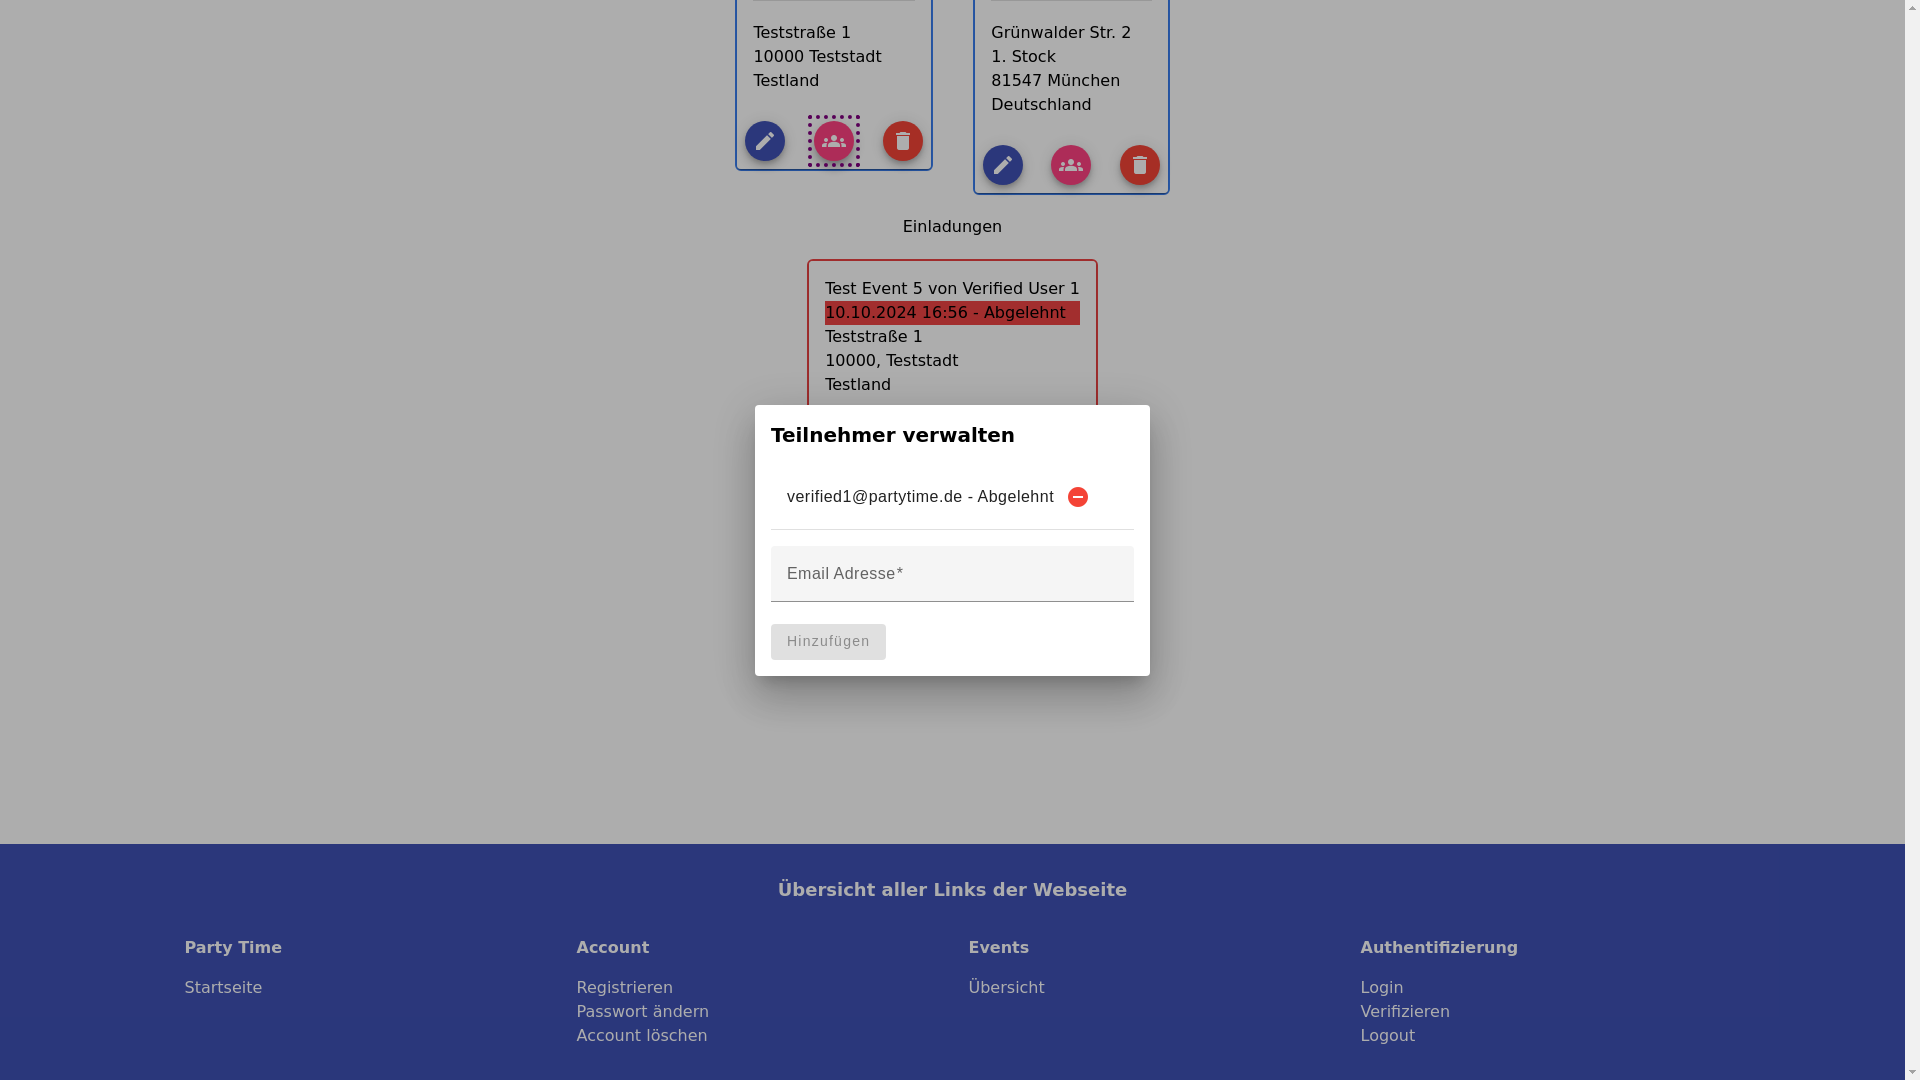
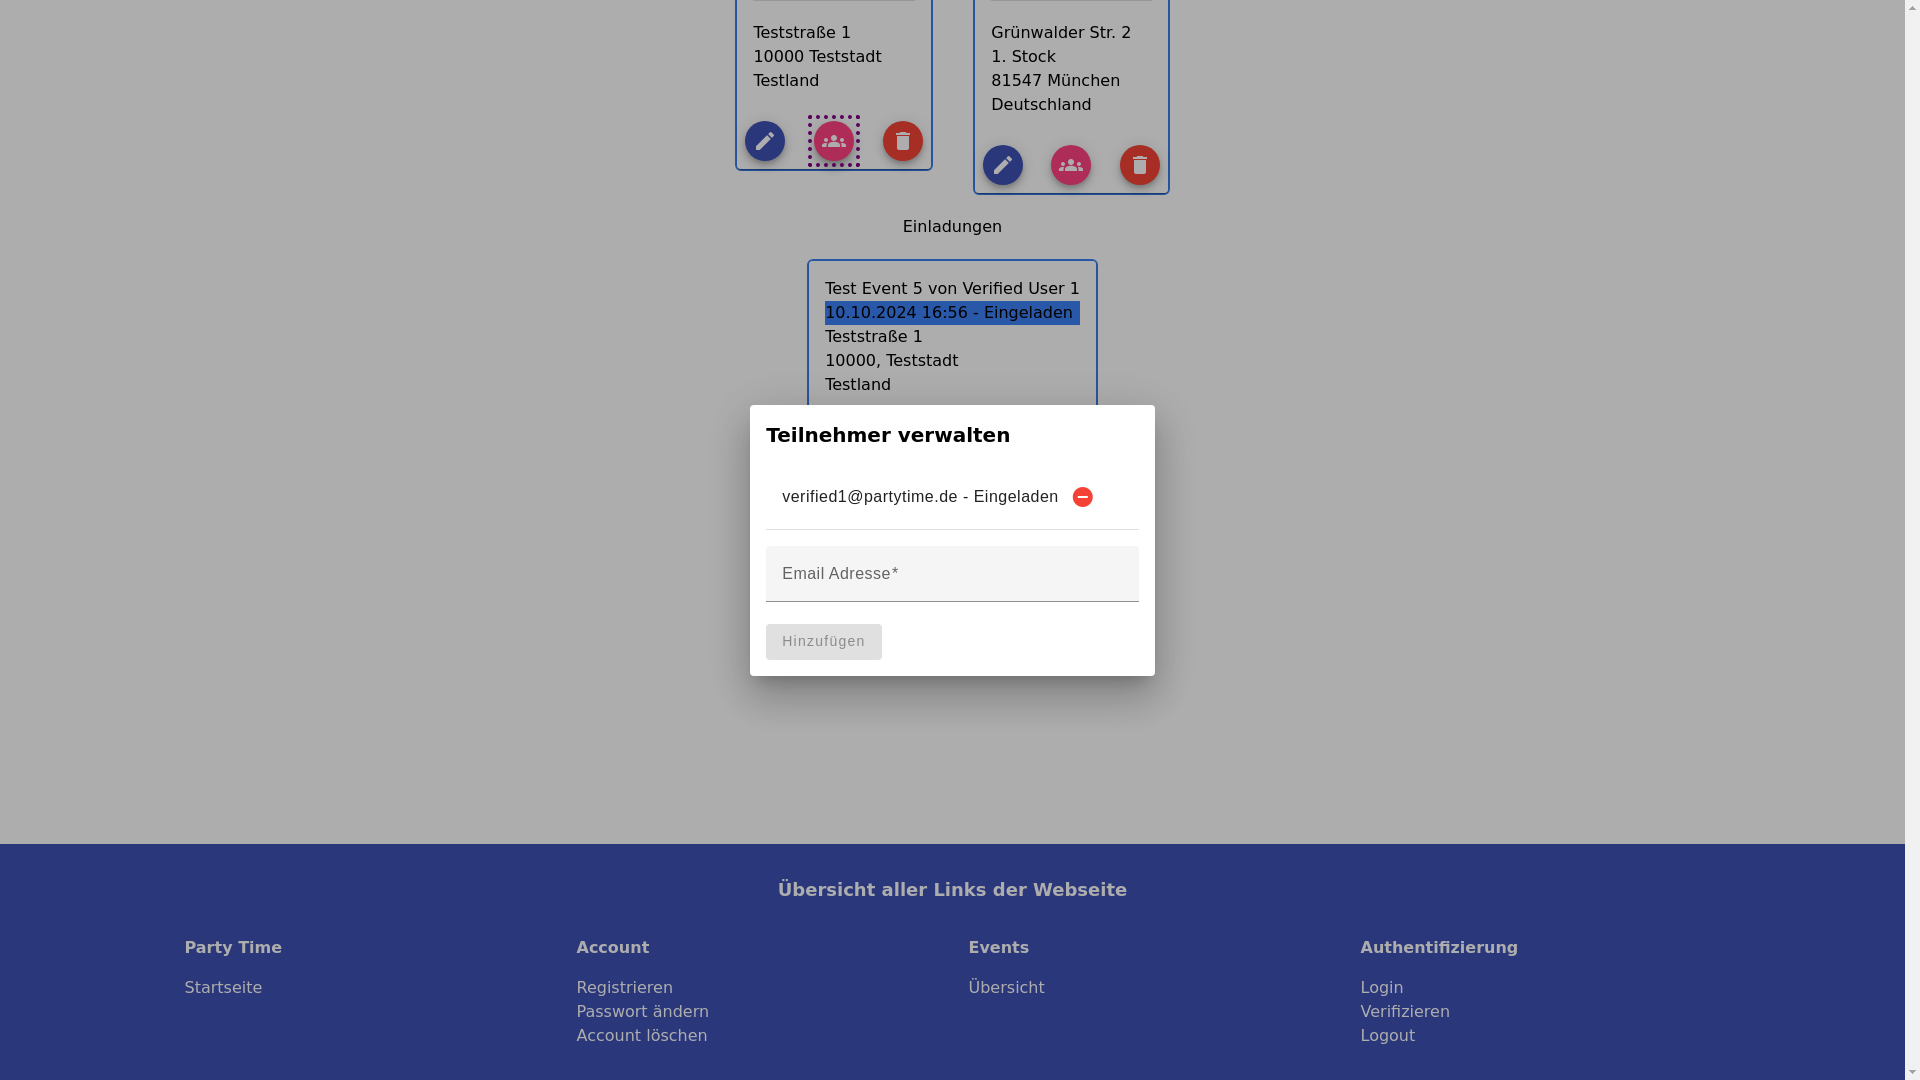
improved tests

diff --git a/apps/party-time-frontend-17/-e2e/src/e2e/F013.cy.ts b/apps/party-time-frontend-17/-e2e/src/e2e/F013.cy.ts
@@ -13,6 +13,7 @@ describe(passwordChange, () => {
     'Benutzer sollten in der Lage sein, ihr aktuelles Passwort einzugeben, um ihre Identität zu bestätigen.';
   it(confirmPassword, () => {
     cy.get('[data-cy="old-password-input"]').type('Hallo123!party');
+cy.scrollTo('top');
     cy.screenshot(getScreenshotPath(requirement, passwordChange, '1'), {
       overwrite: true,
       capture: 'viewport',
@@ -22,9 +23,12 @@ describe(passwordChange, () => {
   const newPasswordConstraints =
     ' Das neue Passwort muss bestimmte Anforderungen erfüllen, z. B. eine Mindestlänge und die Verwendung von Sonderzeichen.';
   it(newPasswordConstraints, () => {
+
+    cy.get('[data-cy="old-password-input"]').type('Hallo123!party');
     cy.get('[data-cy="new-password-input"]').type('prty');
     cy.get('[data-cy="old-password-input"]').focus();
-
+cy.scrollTo('top');
+cy.wait(500);
     cy.screenshot(getScreenshotPath(requirement, passwordChange, '2'), {
       overwrite: true,
       capture: 'viewport',
@@ -33,7 +37,9 @@ describe(passwordChange, () => {
   const newPassword =
     'Benutzer sollten in der Lage sein, ein neues Passwort einzugeben und zu bestätigen.';
   it(newPassword, () => {
+    cy.get('[data-cy="old-password-input"]').type('Hallo123!party');
     cy.get('[data-cy="new-password-input"]').type('Hallo123!party');
+cy.scrollTo('top');
     cy.screenshot(getScreenshotPath(requirement, passwordChange, '3'), {
       overwrite: true,
       capture: 'viewport',
@@ -45,11 +51,14 @@ describe(passwordChange, () => {
   it(passwordChangeLogout, () => {
     cy.get('[data-cy="old-password-input"]').type('Hallo123!party');
     cy.get('[data-cy="new-password-input"]').type('Hallo123!party');
+cy.scrollTo('top');
     cy.screenshot(getScreenshotPath(requirement, passwordChange, '4'), {
       overwrite: true,
       capture: 'viewport',
     });
     cy.get('[data-cy="submit-button"]').click();
+cy.scrollTo('top');
+cy.wait(500);
     cy.screenshot(getScreenshotPath(requirement, passwordChange, '5'), {
       overwrite: true,
       capture: 'viewport',

diff --git a/apps/party-time-frontend-17/-e2e/src/e2e/F007.cy.ts b/apps/party-time-frontend-17/-e2e/src/e2e/F007.cy.ts
@@ -12,6 +12,7 @@ describe(invitationReceivedGroup, () => {
   const eventDetails =
     'Einladungen sollten alle relevanten Informationen zum Event enthalten.';
   it(eventDetails, () => {
+cy.scrollTo('top');
     cy.screenshot(
       getScreenshotPath(requirement, invitationReceivedGroup, '1'),
       {
@@ -20,15 +21,16 @@ describe(invitationReceivedGroup, () => {
       }
     );
   });
-  const inviteDecline =
-    'Teilnehmer sollten in der Lage sein, Einladungen anzunehmen oder abzulehnen.';
-  it(inviteDecline, () => {
-    cy.screenshot(
-      getScreenshotPath(requirement, invitationReceivedGroup, '2'),
-      {
-        overwrite: true,
-        capture: 'viewport',
-      }
-    );
-  });
+//   const inviteDecline =
+//     'Teilnehmer sollten in der Lage sein, Einladungen anzunehmen oder abzulehnen.';
+//   it(inviteDecline, () => {
+// cy.scrollTo('top');
+//     cy.screenshot(
+//       getScreenshotPath(requirement, invitationReceivedGroup, '2'),
+//       {
+//         overwrite: true,
+//         capture: 'viewport',
+//       }
+//     );
+//   });
 });

diff --git a/apps/party-time-frontend-17/-e2e/src/e2e/F012.cy.ts b/apps/party-time-frontend-17/-e2e/src/e2e/F012.cy.ts
@@ -15,14 +15,14 @@ describe(signOutGroup, () => {
     cy.visit('/');
 
     cy.get('[data-cy="user-menu"]').click();
-
+cy.scrollTo('top');
     cy.screenshot(getScreenshotPath(requirement, signOutGroup, '1'), {
       overwrite: true,
       capture: 'viewport',
     });
 
     cy.get('[data-cy="sign-out-button"]').click();
-
+cy.scrollTo('top');
     cy.screenshot(getScreenshotPath(requirement, signOutGroup, '2'), {
       overwrite: true,
       capture: 'viewport',
@@ -33,11 +33,13 @@ describe(signOutGroup, () => {
     ' Nachdem ein Benutzer sich abgemeldet hat, kann er auf keine persönlichen Daten zugreifen, bis er sich nicht wieder angemeldet hat.';
   it(unavailableDataAfterLogout, () => {
     cy.visit('/');
+cy.scrollTo('top');
     cy.screenshot(getScreenshotPath(requirement, signOutGroup, '3'), {
       overwrite: true,
       capture: 'viewport',
     });
     cy.get('[data-cy="create-event-button"]').click();
+cy.scrollTo('top');
     cy.screenshot(getScreenshotPath(requirement, signOutGroup, '4'), {
       overwrite: true,
       capture: 'viewport',

diff --git a/apps/party-time-frontend-17/-e2e/src/e2e/F011.cy.ts b/apps/party-time-frontend-17/-e2e/src/e2e/F011.cy.ts
@@ -12,6 +12,7 @@ describe(login_account_success, () => {
   const loginFormTest =
     'Nutzer müssen ein Anmeldeformular ausfüllen, das ihre E-Mail-Adresse und ein Passwort erfordert.';
   it(loginFormTest, () => {
+cy.scrollTo('top');
     cy.screenshot(getScreenshotPath(requirement, login_account_success, '1'), {
       overwrite: true,
       capture: 'viewport',
@@ -19,12 +20,15 @@ describe(login_account_success, () => {
 
     cy.get('[data-cy="email-input"]').type('verified1@partytime.de');
     cy.get('[data-cy="password-input"]').type('Hallo123!party');
-
+cy.scrollTo('top');
     cy.screenshot(getScreenshotPath(requirement, login_account_success, '2'), {
       overwrite: true,
       capture: 'viewport',
     });
     cy.get('[data-cy="login-button"]').click();
+    // eslint-disable-next-line cypress/no-unnecessary-waiting
+    cy.wait(500);
+cy.scrollTo('top');
     cy.screenshot(getScreenshotPath(requirement, login_account_success, '3'), {
       overwrite: true,
       capture: 'viewport',

diff --git a/apps/party-time-frontend-17/-e2e/src/e2e/F008.cy.ts b/apps/party-time-frontend-17/-e2e/src/e2e/F008.cy.ts
@@ -12,11 +12,13 @@ describe(eventAcceptanceGroup, () => {
   const acceptInvitation =
     'Teilnehmer sollten in der Lage sein, ihre Zusage zum Event auf der Plattform zu geben, indem sie auf eine Schaltfläche klicken.';
   it(acceptInvitation, () => {
+cy.scrollTo('top');
     cy.screenshot(getScreenshotPath(requirement, eventAcceptanceGroup, '1'), {
       overwrite: true,
       capture: 'viewport',
     });
     cy.get('[data-cy="participate-button"]').first().click();
+cy.scrollTo('top');
     cy.screenshot(getScreenshotPath(requirement, eventAcceptanceGroup, '1'), {
       overwrite: true,
       capture: 'viewport',

diff --git a/apps/party-time-frontend-17/src/app/pages/event/components/participating-Event/participating-Event.component.ts b/apps/party-time-frontend-17/src/app/pages/event/components/participating-Event/participating-Event.component.ts
@@ -25,12 +25,12 @@ import { MatIconModule } from '@angular/material/icon';
       <section
         class="m-5 max-w-md rounded-md border-2"
         [ngClass]="{
-          'bg-blue-500':
+          'border-blue-500':
             participantEvent.invitationDetailsDTO.status === Status.INVITED,
-          'bg-green-500':
+          'border-green-500':
             participantEvent.invitationDetailsDTO.status ===
             Status.PARTICIPATING,
-          'bg-red-500':
+          'border-red-500':
             participantEvent.invitationDetailsDTO.status === Status.DECLINED
         }"
       >

diff --git a/apps/party-time-frontend-17/-e2e/src/e2e/F014.cy.ts b/apps/party-time-frontend-17/-e2e/src/e2e/F014.cy.ts
@@ -15,12 +15,13 @@ describe(verifyAccount, () => {
     cy.get('[data-cy="token-input"]').type(
       '4edc2ee0-260b-43d2-877a-e2016c14d164'
     );
+cy.scrollTo('top');
     cy.screenshot(getScreenshotPath(requirement, verifyAccount, '1'), {
       overwrite: true,
       capture: 'viewport',
     });
     cy.get('[data-cy="verify-button"]').click();
-
+cy.scrollTo('top');
     cy.screenshot(getScreenshotPath(requirement, verifyAccount, '2'), {
       overwrite: true,
       capture: 'viewport',

diff --git a/apps/party-time-frontend-17/-e2e/src/e2e/F004.cy.ts b/apps/party-time-frontend-17/-e2e/src/e2e/F004.cy.ts
@@ -32,9 +32,9 @@ describe(inviteGuests, () => {
     cy.screenshot(getScreenshotPath(requirement, inviteGuests, '3'), {
       overwrite: true,
     });
-    cy.get('[data-cy="decline-button"]').each(($button) => {
-      cy.wrap($button).click();
-    });
+    // cy.get('[data-cy="decline-button"]').each(($button) => {
+    //   cy.wrap($button).click();
+    // });
     cy.screenshot(getScreenshotPath(requirement, inviteGuests, '4'), {
       overwrite: true,
     });

diff --git a/apps/party-time-frontend-17/-e2e/src/e2e/F009.cy.ts b/apps/party-time-frontend-17/-e2e/src/e2e/F009.cy.ts
@@ -13,6 +13,7 @@ describe(eventCancelation, () => {
     'Teilnehmer sollten in der Lage sein, ihre Absage zum Event auf der Plattform zu geben, indem sie auf eine Schaltfläche klicken.';
   it(declineInvitation, () => {
     cy.get('[data-cy="decline-button"]').first().click();
+cy.scrollTo('top');
     cy.screenshot(getScreenshotPath(requirement, eventCancelation, '1'), {
       overwrite: true,
       capture: 'viewport',

diff --git a/apps/party-time-frontend-17/-e2e/src/e2e/F010.cy.ts b/apps/party-time-frontend-17/-e2e/src/e2e/F010.cy.ts
@@ -18,7 +18,9 @@ describe(createAccountGroup, () => {
     );
     cy.get('[data-cy="password-input"]').type('Hallo123!party');
     cy.get('[data-cy="register-submit-btn"]').click();
-
+    // eslint-disable-next-line cypress/no-unnecessary-waiting
+    cy.wait(500);
+cy.scrollTo('top');
     cy.screenshot(getScreenshotPath(requirement, createAccountGroup, '1'), {
       overwrite: true,
       capture: 'viewport',
